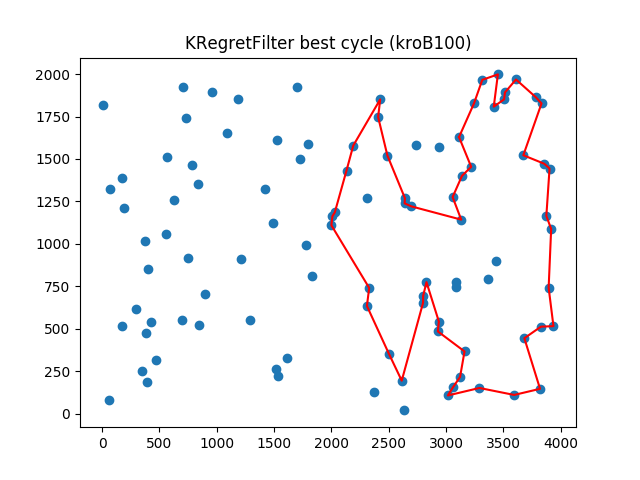
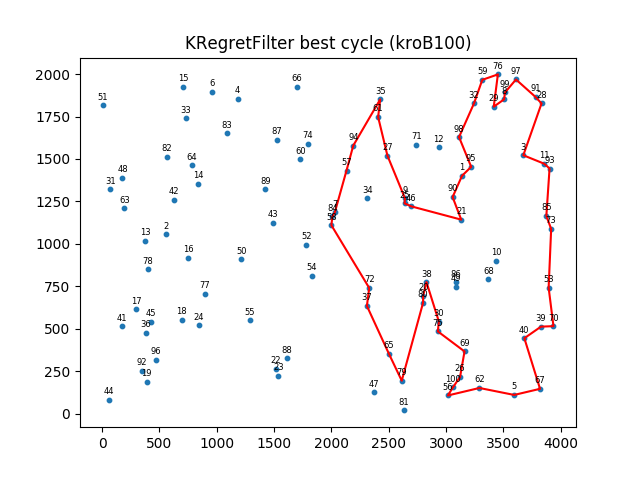
Improved Plots

diff --git a/aem/utils/plot_util.py b/aem/utils/plot_util.py
@@ -12,7 +12,9 @@ class PlotUtil:
         all_x, all_y = zip(*list(coords.values()))
         plt.figure()
         plt.title(f"{res.method_classname} best cycle ({instance[8:-4]})")
-        plt.scatter(all_x, all_y)
+        plt.scatter(all_x, all_y, s=10)
+        for i, (x,y) in enumerate(zip(all_x, all_y)):
+            plt.annotate(f"{i+1}", (x,y), textcoords="offset points", xytext=(0,4), ha="center", fontsize=6)
         plt.plot(cycle_coords_x + [cycle_coords_x[0]], cycle_coords_y + [cycle_coords_y[0]], c='r')
         plt.savefig(f"plots/{res.method_classname}-{instance[8:-4]}-best.png")
         plt.close()
